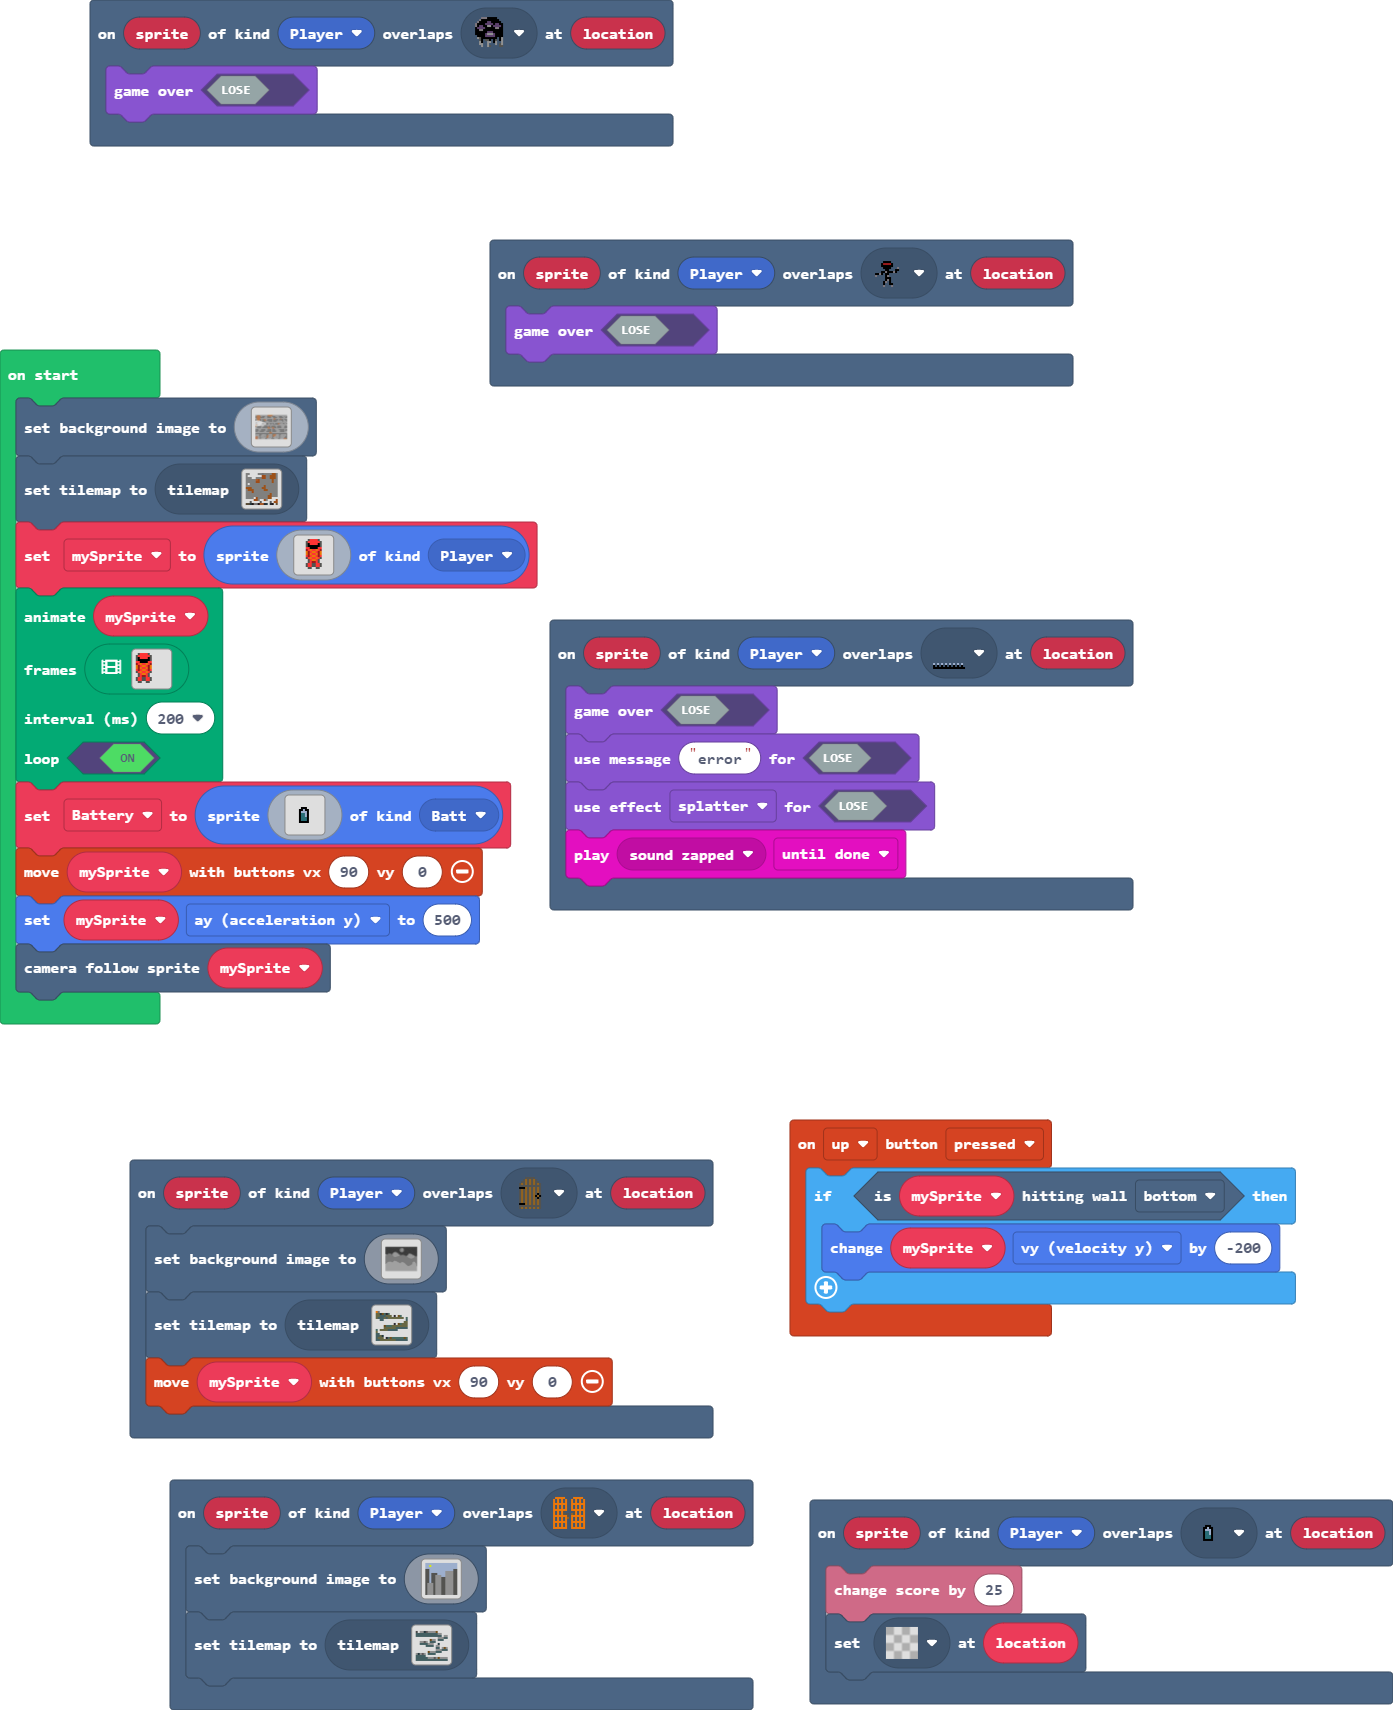
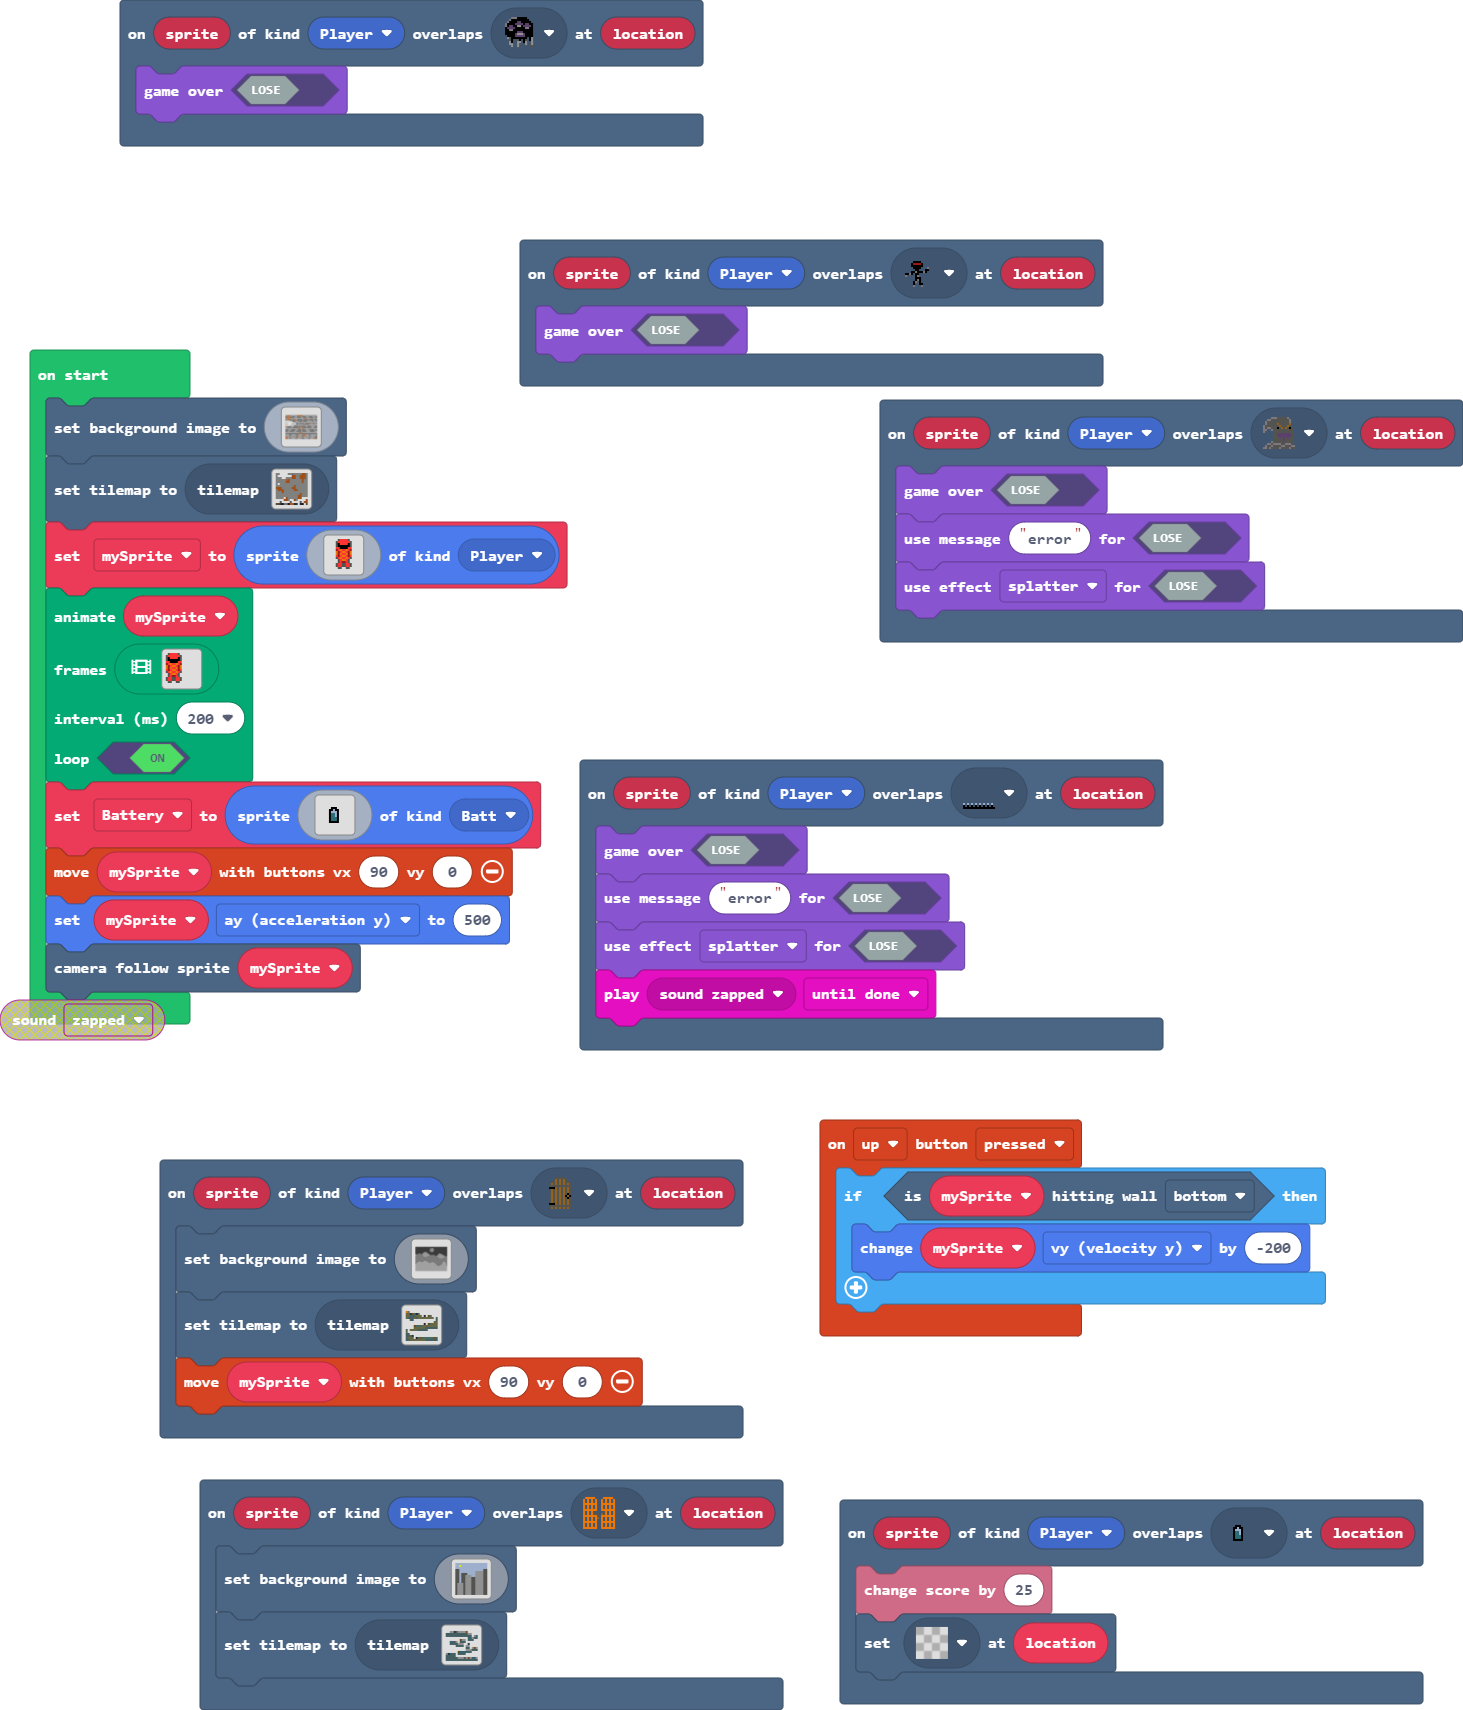
Update main.blocks, main.ts, tilemap.g.jres, tilemap.g.ts, images.g.jres, images.g.ts

diff --git a/images.g.ts b/images.g.ts
@@ -731,6 +731,127 @@ f 6 9 6 6 9 6 f . . . . . . . .
 . 3 3 . . 3 3 . . . . . . . . . 
 . . . . . . . . . . . . . . . . 
 `];
+            case "myAnim3":
+            case "anim5":return [img`
+2 2 3 3 3 3 3 3 3 3 3 3 3 3 2 2 
+2 2 3 4 4 4 4 d 3 d 4 4 4 3 2 2 
+2 2 2 4 4 4 d 4 3 4 d 4 4 2 2 2 
+2 2 3 4 4 4 d 4 3 4 d 4 4 3 2 2 
+2 2 3 4 4 d 4 4 3 4 4 d 4 3 2 2 
+2 2 3 4 4 d 4 4 3 4 4 d 4 3 2 2 
+2 2 3 4 d 4 4 4 3 4 4 4 d 3 2 2 
+2 2 3 4 4 d 4 4 3 4 4 d 4 3 2 2 
+2 2 3 4 4 d 4 4 3 4 4 d 4 3 2 2 
+2 2 3 4 d 4 4 4 3 4 4 4 d 3 2 2 
+2 2 3 4 d 4 4 4 3 4 4 4 d 3 2 2 
+2 2 3 4 4 d 4 4 3 4 4 d 4 3 2 2 
+2 2 3 4 4 d 4 4 3 4 4 d 4 3 2 2 
+2 2 3 4 4 4 d 4 3 4 d 4 4 3 2 2 
+2 2 2 4 4 4 4 4 3 4 4 4 4 2 2 2 
+2 2 3 3 3 3 3 3 3 3 3 3 3 3 2 2 
+`, img`
+2 2 3 3 3 3 3 . . . 3 3 3 3 2 2 
+2 2 3 4 4 4 3 . . . 3 4 4 3 2 2 
+2 2 2 4 4 4 3 . . . 3 4 4 2 2 2 
+2 2 3 4 4 4 3 . . . 3 4 4 3 2 2 
+2 2 3 4 4 d 3 . . . 3 d 4 3 2 2 
+2 2 3 4 4 d 3 . . . 3 d 4 3 2 2 
+2 2 3 4 d 4 3 . . . 3 4 d 3 2 2 
+2 2 3 4 4 d 3 . . . 3 d 4 3 2 2 
+2 2 3 4 4 d 3 . . . 3 d 4 3 2 2 
+2 2 3 4 d 4 3 . . . 3 4 d 3 2 2 
+2 2 3 4 d 4 3 . . . 3 4 d 3 2 2 
+2 2 3 4 4 d 3 . . . 3 d 4 3 2 2 
+2 2 3 4 4 d 3 . . . 3 d 4 3 2 2 
+2 2 3 4 4 4 3 . . . 3 4 4 3 2 2 
+2 2 2 4 4 4 3 . . . 3 4 4 2 2 2 
+2 2 3 3 3 3 3 . . . 3 3 3 3 2 2 
+`, img`
+2 2 3 3 3 3 . . . . . 3 3 3 2 2 
+2 2 3 4 4 3 . . . . . 3 4 3 2 2 
+2 2 2 4 4 3 . . . . . 3 4 2 2 2 
+2 2 3 4 4 3 . . . . . 3 4 3 2 2 
+2 2 3 4 4 3 . . . . . 3 4 3 2 2 
+2 2 3 4 4 3 . . . . . 3 4 3 2 2 
+2 2 3 4 d 3 . . . . . 3 d 3 2 2 
+2 2 3 4 4 3 . . . . . 3 4 3 2 2 
+2 2 3 4 4 3 . . . . . 3 4 3 2 2 
+2 2 3 4 d 3 . . . . . 3 d 3 2 2 
+2 2 3 4 d 3 . . . . . 3 d 3 2 2 
+2 2 3 4 4 3 . . . . . 3 4 3 2 2 
+2 2 3 4 4 3 . . . . . 3 4 3 2 2 
+2 2 3 4 4 3 . . . . . 3 4 3 2 2 
+2 2 2 4 4 3 . . . . . 3 4 2 2 2 
+2 2 3 3 3 3 . . . . . 3 3 3 2 2 
+`, img`
+2 2 3 3 3 3 . . . . . 3 3 3 2 2 
+2 2 3 4 4 3 . . . . . 3 4 3 2 2 
+2 2 2 4 4 3 . . . . . 3 4 2 2 2 
+2 2 3 4 4 3 . . . . . 3 4 3 2 2 
+2 2 3 4 4 3 . . . . . 3 4 3 2 2 
+2 2 3 4 4 3 . . . . . 3 4 3 2 2 
+2 2 3 4 d 3 . . . . . 3 d 3 2 2 
+2 2 3 4 4 3 . . . . . 3 4 3 2 2 
+2 2 3 4 4 3 . . . . . 3 4 3 2 2 
+2 2 3 4 d 3 . . . . . 3 d 3 2 2 
+2 2 3 4 d 3 . . . . . 3 d 3 2 2 
+2 2 3 4 4 3 . . . . . 3 4 3 2 2 
+2 2 3 4 4 3 . . . . . 3 4 3 2 2 
+2 2 3 4 4 3 . . . . . 3 4 3 2 2 
+2 2 2 4 4 3 . . . . . 3 4 2 2 2 
+2 2 3 3 3 3 . . . . . 3 3 3 2 2 
+`, img`
+2 2 3 3 3 . . . . . . . 3 3 2 2 
+2 2 3 4 3 . . . . . . . 3 3 2 2 
+2 2 2 4 3 . . . . . . . 3 2 2 2 
+2 2 3 4 3 . . . . . . . 3 3 2 2 
+2 2 3 4 3 . . . . . . . 3 3 2 2 
+2 2 3 4 3 . . . . . . . 3 3 2 2 
+2 2 3 4 3 . . . . . . . 3 3 2 2 
+2 2 3 4 3 . . . . . . . 3 3 2 2 
+2 2 3 4 3 . . . . . . . 3 3 2 2 
+2 2 3 4 3 . . . . . . . 3 3 2 2 
+2 2 3 4 3 . . . . . . . 3 3 2 2 
+2 2 3 4 3 . . . . . . . 3 3 2 2 
+2 2 3 4 3 . . . . . . . 3 3 2 2 
+2 2 3 4 3 . . . . . . . 3 3 2 2 
+2 2 2 4 3 . . . . . . . 3 2 2 2 
+2 2 3 3 3 . . . . . . . 3 3 2 2 
+`, img`
+2 2 3 3 3 . . . . . . . 3 3 2 2 
+2 2 3 4 3 . . . . . . . 3 3 2 2 
+2 2 2 4 3 . . . . . . . 3 2 2 2 
+2 2 3 4 3 . . . . . . . 3 3 2 2 
+2 2 3 4 3 . . . . . . . 3 3 2 2 
+2 2 3 4 3 . . . . . . . 3 3 2 2 
+2 2 3 4 3 . . . . . . . 3 3 2 2 
+2 2 3 4 3 . . . . . . . 3 3 2 2 
+2 2 3 4 3 . . . . . . . 3 3 2 2 
+2 2 3 4 3 . . . . . . . 3 3 2 2 
+2 2 3 4 3 . . . . . . . 3 3 2 2 
+2 2 3 4 3 . . . . . . . 3 3 2 2 
+2 2 3 4 3 . . . . . . . 3 3 2 2 
+2 2 3 4 3 . . . . . . . 3 3 2 2 
+2 2 2 4 3 . . . . . . . 3 2 2 2 
+2 2 3 3 3 . . . . . . . 3 3 2 2 
+`, img`
+2 2 3 3 . . . . . . . . 3 3 2 2 
+2 2 3 3 . . . . . . . . 3 3 2 2 
+2 2 2 3 . . . . . . . . 3 2 2 2 
+2 2 3 3 . . . . . . . . 3 3 2 2 
+2 2 3 3 . . . . . . . . 3 3 2 2 
+2 2 3 3 . . . . . . . . 3 3 2 2 
+2 2 3 3 . . . . . . . . 3 3 2 2 
+2 2 3 3 . . . . . . . . 3 3 2 2 
+2 2 3 3 . . . . . . . . 3 3 2 2 
+2 2 3 3 . . . . . . . . 3 3 2 2 
+2 2 3 3 . . . . . . . . 3 3 2 2 
+2 2 3 3 . . . . . . . . 3 3 2 2 
+2 2 3 3 . . . . . . . . 3 3 2 2 
+2 2 3 3 . . . . . . . . 3 3 2 2 
+2 2 2 3 . . . . . . . . 3 2 2 2 
+2 2 3 3 . . . . . . . . 3 3 2 2 
+`];
         }
         return null;
     })

diff --git a/tilemap.g.ts b/tilemap.g.ts
@@ -129,7 +129,7 @@ namespace myTiles {
 2 2 2 2 2 2 2 2 2 2 2 2 2 2 2 2 
 `, [myTiles.transparency16,myTiles.tile17,myTiles.tile18,myTiles.tile19,myTiles.tile20,myTiles.tile21,myTiles.tile16,myTiles.tile23,myTiles.tile24,myTiles.tile9], TileScale.Sixteen);
             case "level7":
-            case "level6":return tiles.createTilemap(hex`1000100000000000000000000000000000000000070005050106050505050300000000000202020202020202020202050500000002020202020202020202020202000505000000000000000000000005050502020000000000000004050500020202000000000505060500020202000000000000000002020202050505000001000000000000000000020202020005050000000000000000000000000000020200050305000000000000000000000505050202020000000000000405050502020200000005010506050002020202000000000000020202020200000000000000000000000202020202020505050605030505050502020202020202020202020202020202`, img`
+            case "level6":return tiles.createTilemap(hex`1000100000000000000000000000000000000000000005050106050505050300000000000202020202020202020202050500000002020202020202020202020202000507000000000000000000000007070502020000000000000004050500020202000000000707060500020202000000000000000002020202050505000001000000000000000000020202020005050000000000000000000000000000020200050305000000000000000000000505050202020000000000000407070702020200000005010706070002020202000000000000020202020200000000000000000000000202020202020505050605030507070502020202020202020202020202020202`, img`
 . . . . . . . . . . . . . . . . 
 . . . . . . . . . . . . . . . . 
 2 2 2 2 2 2 2 2 2 2 2 . . . . . 
@@ -146,7 +146,7 @@ namespace myTiles {
 2 2 2 2 2 . . . . . . . . . . . 
 2 2 2 2 2 2 . . . . . . . . . . 
 2 2 2 2 2 2 2 2 2 2 2 2 2 2 2 2 
-`, [myTiles.transparency16,myTiles.tile16,myTiles.tile19,myTiles.tile24,myTiles.tile23,myTiles.tile25,myTiles.tile28,myTiles.tile29], TileScale.Sixteen);
+`, [myTiles.transparency16,myTiles.tile16,myTiles.tile19,myTiles.tile24,myTiles.tile23,myTiles.tile25,myTiles.tile28,myTiles.tile27], TileScale.Sixteen);
         }
         return null;
     })

diff --git a/main.ts b/main.ts
@@ -11,6 +11,11 @@ controller.up.onEvent(ControllerButtonEvent.Pressed, function () {
 scene.onOverlapTile(SpriteKind.Player, assets.tile`myTile13`, function (sprite, location) {
     game.gameOver(false)
 })
+scene.onOverlapTile(SpriteKind.Player, assets.tile`myTile25`, function (sprite, location) {
+    game.gameOver(false)
+    game.setGameOverMessage(false, "error")
+    game.setGameOverEffect(false, effects.splatter)
+})
 scene.onOverlapTile(SpriteKind.Player, assets.tile`myTile12`, function (sprite, location) {
     scene.setBackgroundImage(assets.image`background 2`)
     tiles.setCurrentTilemap(tilemap`level5`)
